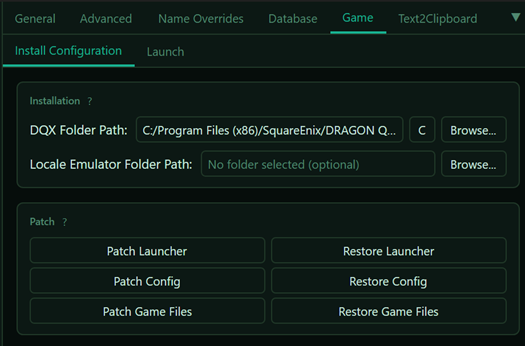
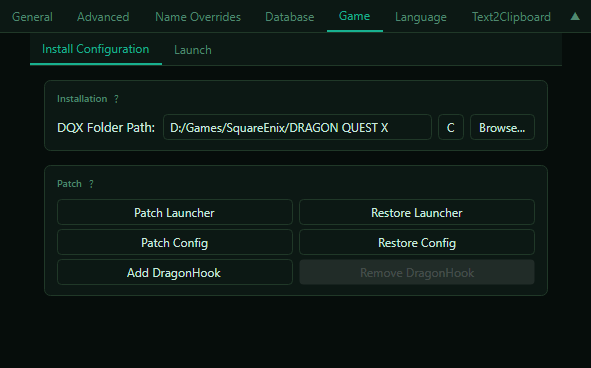
Update files for new version (#16)

diff --git a/site/dqxclarity.html b/site/dqxclarity.html
@@ -75,10 +75,6 @@
         <div class="callout__title">⚠ Important</div>
         <p>
           Dragon Quest X <strong>must be installed</strong> (and fully patched!) before performing these steps.
-          Using dqxclarity to patch the game prior to the normal patching process completing may corrupt your DQX install,
-          requiring a reinstall. dqxclarity downloads a modded DAT file and places it in your game directory.
-          If the game isn&rsquo;t fully patched, it may attempt to use this file and cause problems.
-        </p>
       </div>
 
       <!-- APIs -->
@@ -156,10 +152,25 @@
            class="img-md">
 
       <ul>
-        <li>Click <strong>Patch Game Files</strong> to install the translated local game files to your DQX directory.</li>
+        <li>Click <strong>Add DragonHook</strong> to install the mod to allow translation packs. If you ever
+        want to remove the translation mod, click <strong>Remove DragonHook</strong> to revert the game back to Japanese.</li>
         <li><strong>(Optional)</strong> Click <strong>Patch Config</strong> to install a translated <code>DQXConfig.exe</code> - the Dracky utility for controller and graphics settings.</li>
         <li><strong>(Optional)</strong> Click <strong>Patch Launcher</strong> to install a translated <code>DQXLauncher.exe</code>.</li>
       </ul>
+
+      <p>Under the <strong>Language</strong> tab:</p>
+
+      <img src="assets/dqxclarity/dqxclarity_language_tab.png"
+           alt="dqxclarity Launch tab"
+           class="img-md">
+
+      <p>
+        Click the <strong>Download</strong> button on this tab to download the English
+        translation pack file. Your screen will then look like the above. As translations
+        are often changing due to updates, it's recommended to keep
+        <strong>Automated Updates</strong> checked to always have
+        the latest version of the translation files.
+      </p>
 
       <p>Under the <strong>Launch</strong> tab:</p>
 
